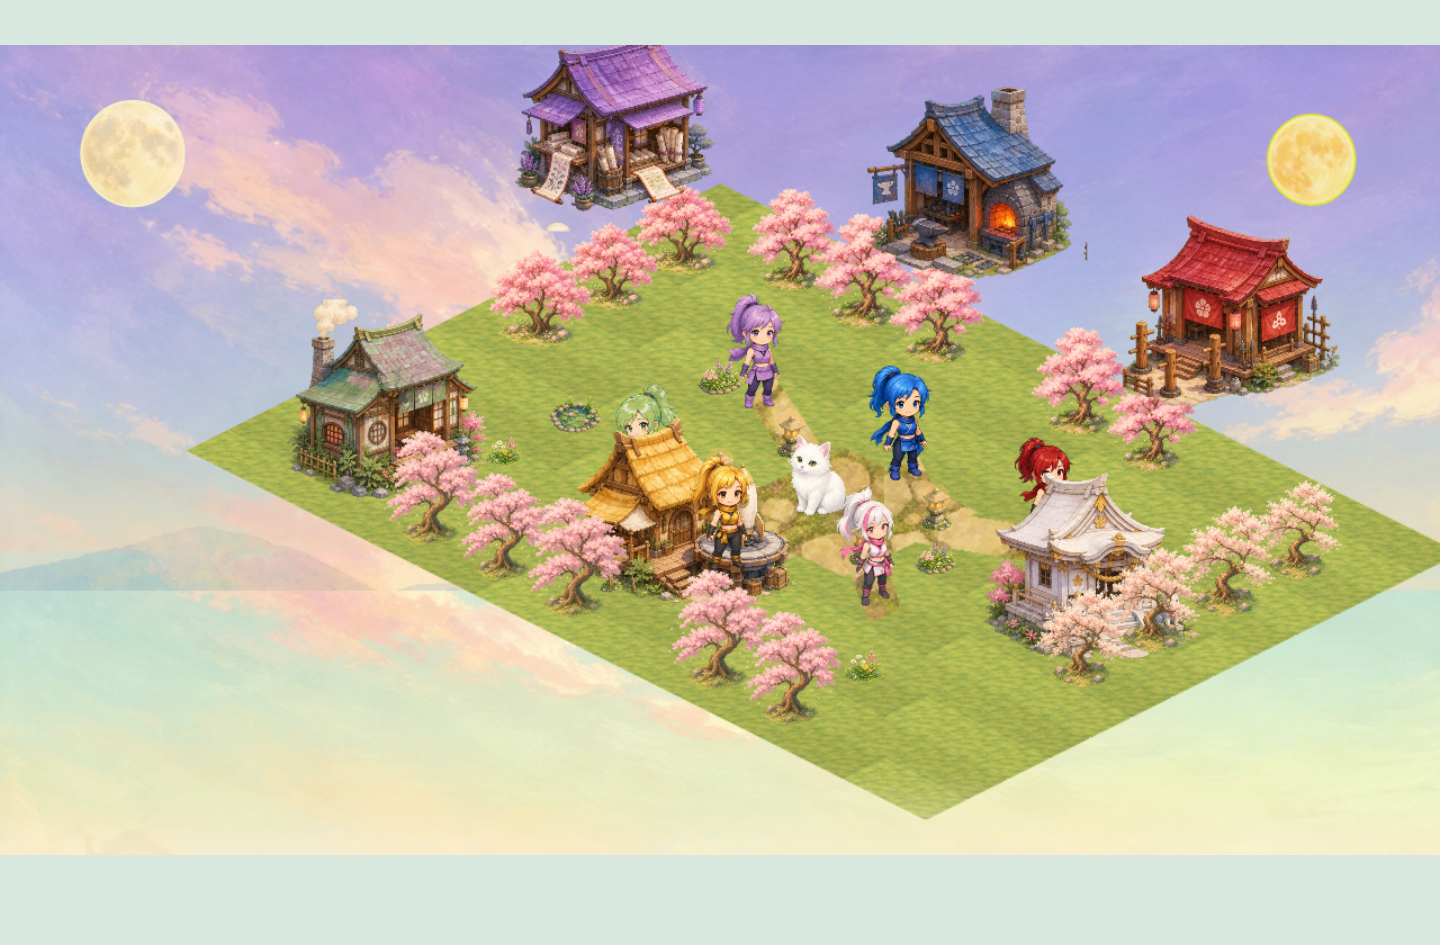
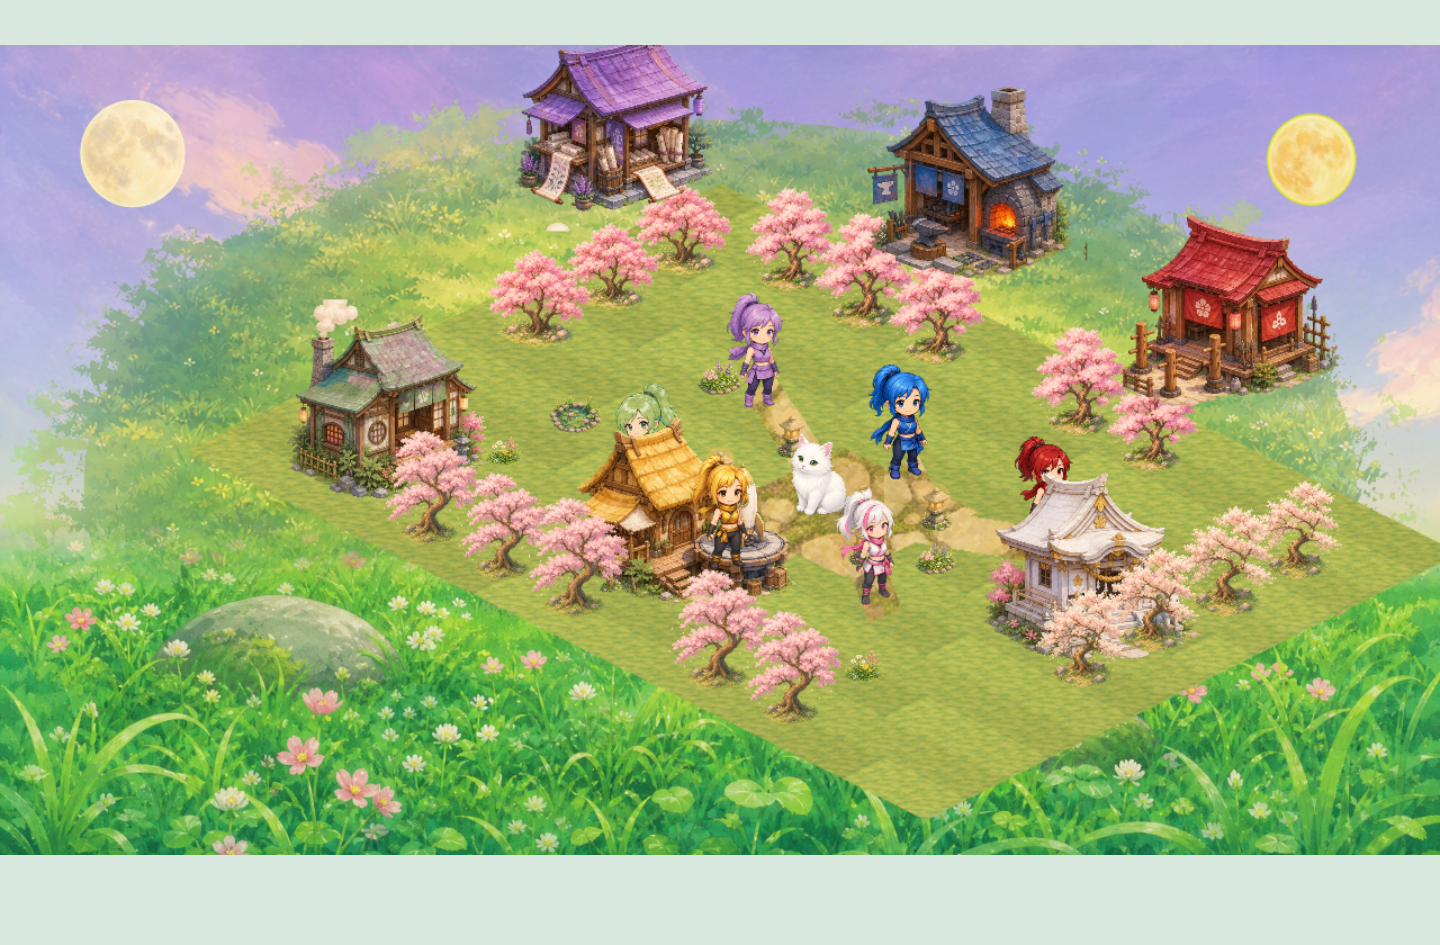
feat(village): PR 1.6 - ground the village, no more floating island
Fixes the cosmetic flying-island effect from PR 1.5 where the isometric tilemap diamond edges cut sharply against the sky.

- Regenerate bg_foreground.png as a proper painted meadow filling the lower viewport
- Add bg_groundplane.png as a feathered connector layer behind the tilemap
- Reorder scene layer composition so the village sits visually grounded on continuous meadow
- Tighten hut interaction zones so hover/click remains reliable after composition changes
- Preserve PR 1.5 functionality: kunoichi animations, Tyche, interior peek, status banners, parallax, particles

Backend untouched. Charter respected. Debug HUD gate intact.
Diagnosis details documented in VillageScene.js header comment.

diff --git a/public/js/village/scenes/VillageScene.js b/public/js/village/scenes/VillageScene.js
@@ -170,8 +170,8 @@ export class VillageScene extends Phaser.Scene {
         .setScale(building.scale)
         .setOrigin(0.5, 0.82)
         .setDepth(point.y + 35);
-      const zone = this.add.zone(point.x, point.y + 10, building.frame.w * building.scale, building.frame.h * building.scale)
-        .setOrigin(0.5, 0.82)
+      const zone = this.add.zone(point.x, point.y + 18, 150, 122)
+        .setOrigin(0.5, 0.62)
         .setDepth(point.y + 70)
         .setInteractive({ useHandCursor: true });
       const record = { id: building.id, building, point, interior, glow, image, zone };